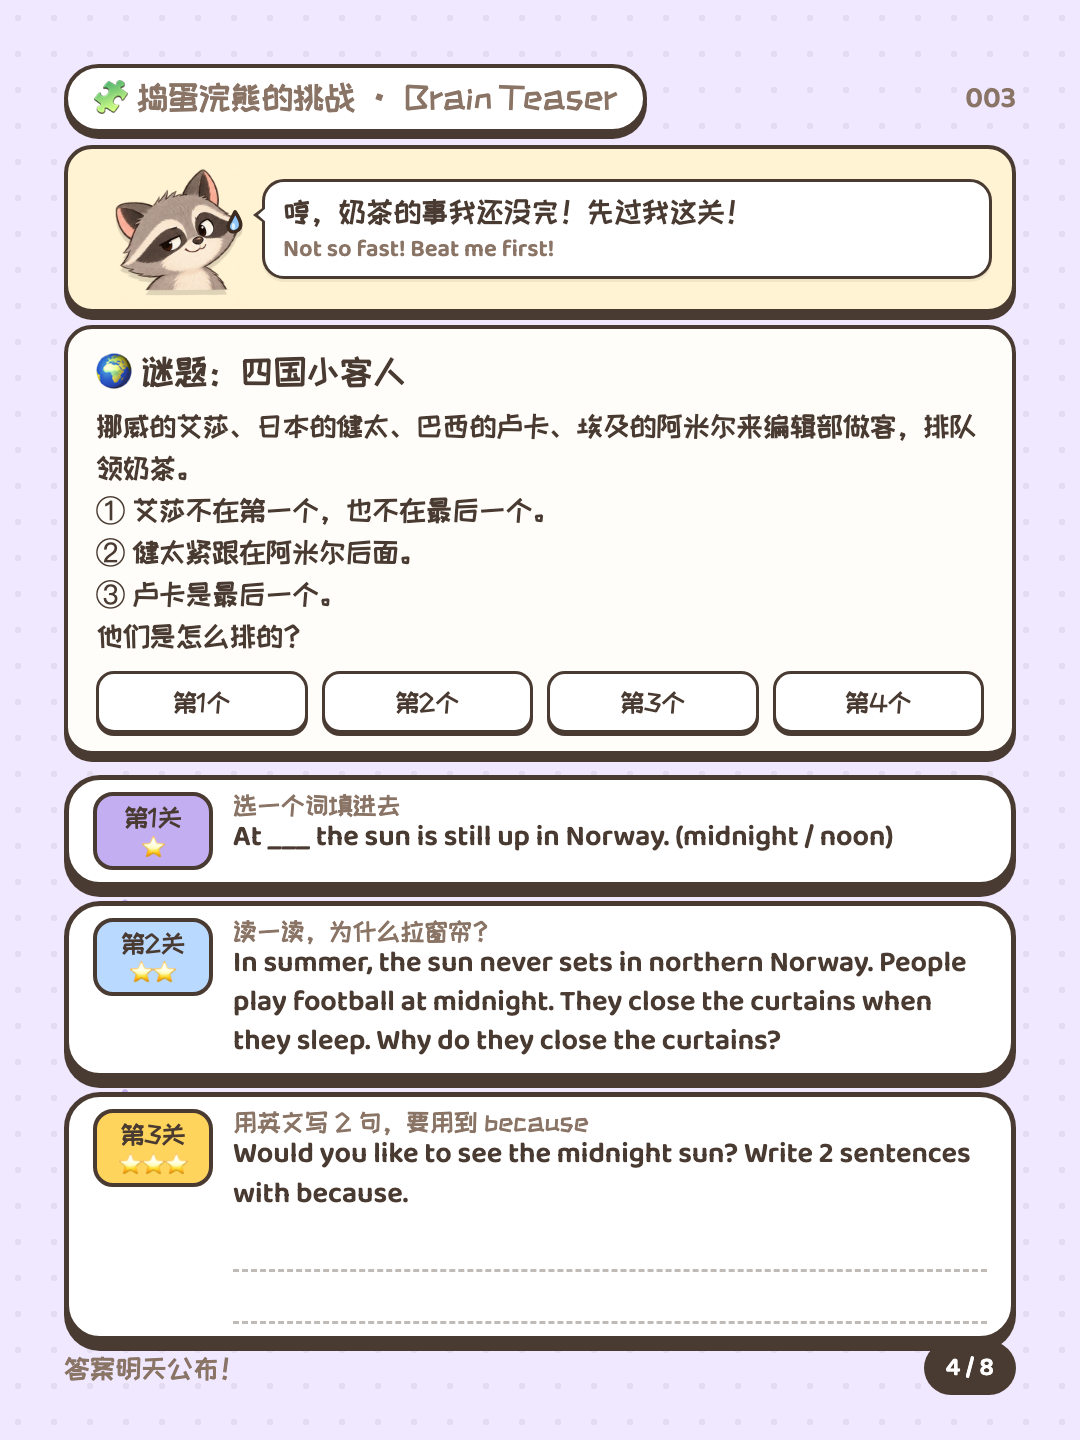
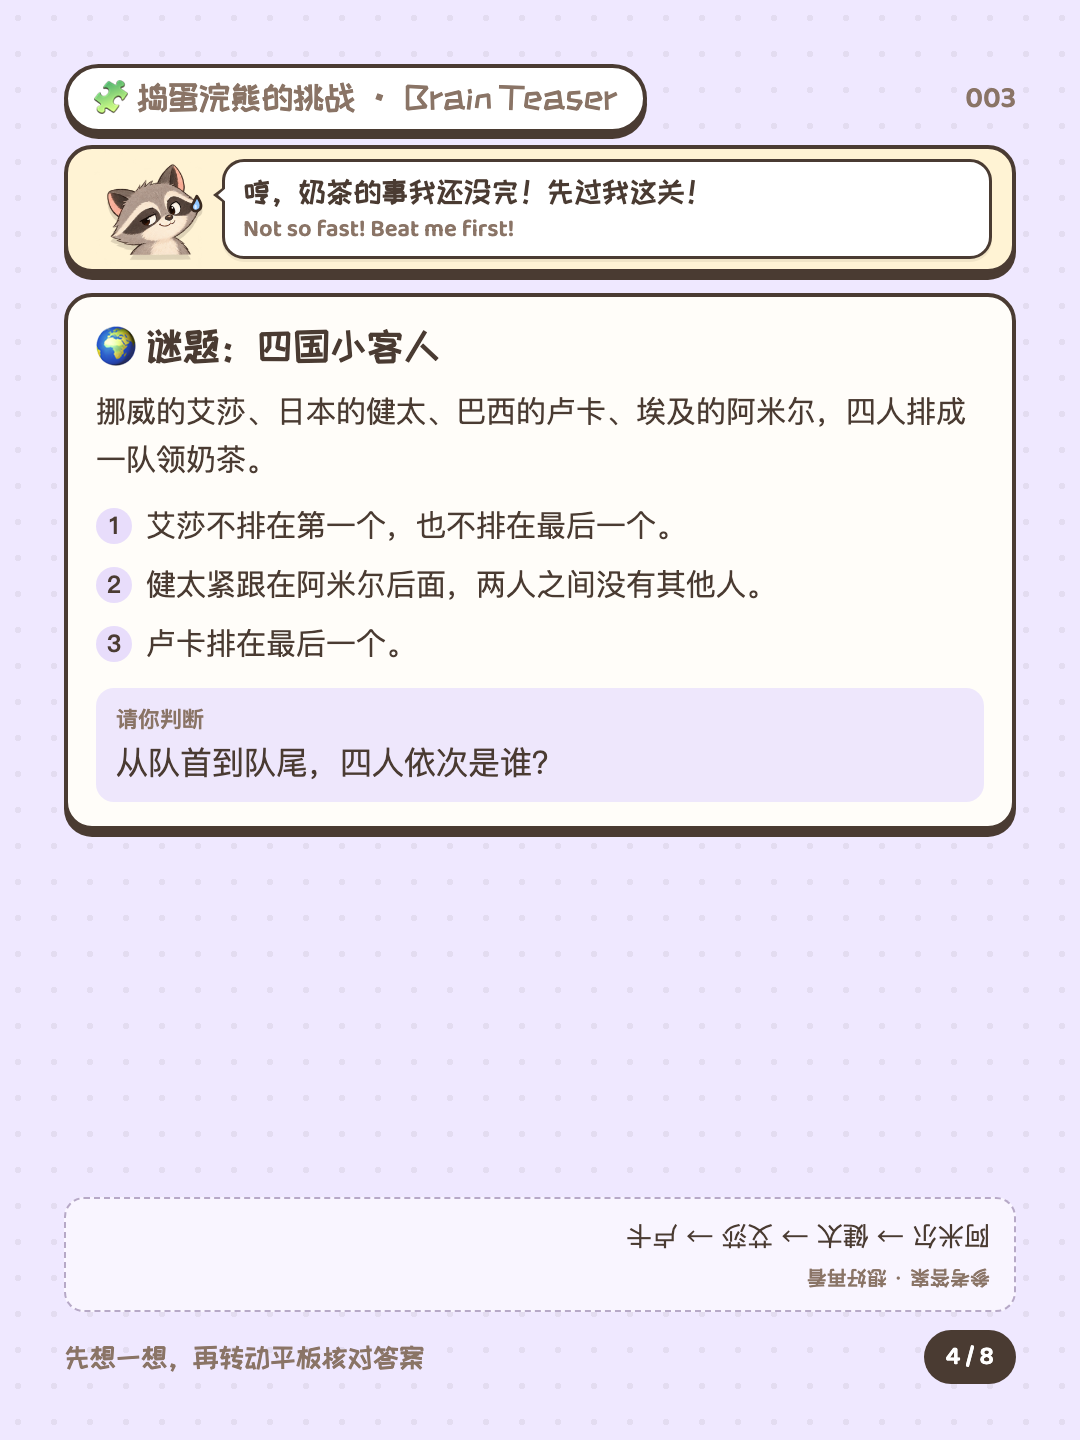
feat(challenge): simplify tablet layout and reveal answers on the same page

Changed region(s): [[0.0611, 0.0938, 0.9472, 0.9688], [0.6722, 0.8438, 0.7333, 0.875], [0.5806, 0.8438, 0.6417, 0.875]]

diff --git a/assets/style.css b/assets/style.css
@@ -253,16 +253,31 @@ svg.ch{display:block}
   border-right:9px solid #FFF;
 }
 #c5 .puz{
-  padding:16px 28px 18px;margin-top:12px;font-size:29px;line-height:1.45;flex:none;
+  padding:24px 28px;margin-top:20px;flex:none;position:relative;
   background:#FFFDF9;border:4px solid var(--ink);border-radius:28px;box-shadow:0 7px 0 var(--ink);
 }
-#c5 .puz h3{font-size:36px;margin-bottom:8px;font-weight:400}
-#c5 .slots{display:flex;gap:14px;margin-top:14px}
-#c5 .slots span{
-  flex:1;border:3.5px solid var(--ink);border-radius:18px;background:#FFF;
-  height:62px;display:flex;align-items:center;justify-content:center;
-  font-size:26px;color:var(--ink);box-shadow:0 3px 0 var(--ink);
-}
+#c5 .puz h3{font-size:40px;line-height:1.25;margin-bottom:16px;font-weight:400}
+#c5 .puz .body{font-size:30px;line-height:1.6}
+#c5 .clues{list-style:none;counter-reset:clue;display:flex;flex-direction:column;gap:14px;margin-top:20px}
+#c5 .clues li{counter-increment:clue;display:flex;align-items:flex-start;gap:14px;font-size:30px;line-height:1.5}
+#c5 .clues li:before{content:counter(clue);flex:0 0 36px;height:36px;margin-top:5px;border-radius:50%;background:#E8DDFB;display:flex;align-items:center;justify-content:center;font-size:24px;font-weight:600}
+#c5 .question{margin-top:22px;padding:16px 20px;border-radius:18px;background:#EEE7FC;font-size:32px;line-height:1.45}
+#c5 .question b{display:block;font-size:22px;color:var(--soft);margin-bottom:4px}
+#c5 .answer-key{position:relative;margin: auto 0 18px;padding:18px 24px;border:2px dashed #B7A9C7;border-radius:20px;background:#F9F5FF;flex:none}
+#c5 .foot{margin-top:0}
+#c5 .answer-content{transform:rotate(180deg);font-size:26px;line-height:1.45}
+#c5 .answer-content b{display:block;font-size:20px;color:var(--soft);margin-bottom:8px}
+#c5 .answer-content .english-key{font-size:23px;line-height:1.4;margin-top:8px}
+#c5.with-english .puz{padding:16px 24px;margin-top:16px}
+#c5.with-english .puz h3{font-size:34px;margin-bottom:8px}
+#c5.with-english .puz .body,#c5.with-english .clues li{font-size:26px;line-height:1.4}
+#c5.with-english .clues{gap:8px;margin-top:10px}
+#c5.with-english .clues li:before{flex-basis:30px;height:30px;margin-top:3px;font-size:21px}
+#c5.with-english .question{font-size:28px;margin-top:12px;padding:10px 16px}
+#c5.with-english .question b{display:none}
+#c5.with-english .taunt .bub{font-size:27px}
+#c5.with-english .taunt .bub .en{font-size:22px}
+#c5.with-english .answer-key{padding:12px 20px;margin-top:18px}
 #c5 .route{position:relative;margin-top:6px}
 #c5 .route:before{content:"";position:absolute;left:58px;top:20px;bottom:20px;border-left:6px dotted var(--lav)}
 #c5 .lv{display:flex;gap:20px;align-items:flex-start;margin-top:14px;padding:12px 24px;flex:none}
@@ -270,23 +285,8 @@ svg.ch{display:block}
 #c5 .lv .st b{display:block;font-size:22px;font-weight:400}
 #c5 .lv.l1 .st{background:#B9D9FF}#c5 .lv.l2 .st{background:#FFD45C}
 #c5 .lv .q{flex:1}
-#c5 .lv .cn{font-size:26px;color:var(--soft)}
-#c5 .lv .en{font-size:29px;line-height:1.35}
-#c5 .draft{
-  flex:1;margin:14px 0 16px;padding:14px 26px;border-radius:24px;border:4px solid var(--ink);
-  box-shadow:0 6px 0 var(--ink);
-  background:#FFF repeating-linear-gradient(0deg,#F7F4EB 0 46px,#EAE4D5 46px 48px);
-  display:flex;justify-content:space-between;align-items:center;
-}
-#c5 .draft h3{font-size:26px;font-weight:400;color:var(--ink);flex:1}
-#c5 .draft .stamp{
-  width:80px;height:80px;border:3px dashed #FF6B6B;border-radius:50%;
-  display:flex;flex-direction:column;align-items:center;justify-content:center;
-  color:#FF6B6B;font-size:15px;transform:rotate(-8deg);flex-shrink:0;margin-left:14px;
-}
-#c5 .draft .stamp b{font-size:20px}
-#c5 .mine{margin-top:14px;padding:12px 30px;font-size:30px;flex:none}
-
+#c5 .lv .cn{font-size:23px;color:var(--soft)}
+#c5 .lv .en{font-size:26px;line-height:1.3}
 /* card 6 信箱 */
 #c6{background:#FFEFD9}
 #c6 .letter{padding:24px 34px;margin-top:20px;font-size:30px;line-height:1.6;background:#FFFDF7;flex:none}
@@ -300,8 +300,6 @@ svg.ch{display:block}
 #c6 .pick.many{gap:8px 8px;flex-wrap:wrap}
 #c6 .pick.many span{padding:3px 12px;font-size:22px;white-space:nowrap}
 #c6 .checkin .lines i{height:44px}
-#c6 .answers{margin-top:20px;padding:16px 30px;background:#FFF4C9;font-size:27px;line-height:1.5;flex:none}
-#c6 .answers b{display:block;font-weight:400;color:var(--tomato);font-size:30px}
 @page{size:1080px 1440px;margin:0}
 @media print{body{background:none;-webkit-print-color-adjust:exact;print-color-adjust:exact}.card{margin:0;break-after:page}.card:last-of-type{break-after:auto}}
 

diff --git a/assets/template.html b/assets/template.html
@@ -151,17 +151,19 @@ cards.push(`<section class="card" id="c4">${topBar("📖 编辑部小剧场 · S
   ${renderStory(ST)}
   ${foot(ST.foot || `编辑部推理连载${NEXT("小剧场")}`)}</section>`);
 
-// 挑战卡
+// 挑战卡：平板阅读，题目分层，答案在本页底部倒印。
 const P = D.challenge;
-if (P) cards.push(`<section class="card" id="c5">${topBar("🧩 捣蛋浣熊的挑战 · Brain Teaser")}
-  <div class="taunt">${ch("raccoon:smirk:160:" + (P.prop || ""))}<div class="bub fun">${P.taunt_zh}<br><span class="en">${P.taunt_en}</span></div></div>
-  <div class="box puz fun"><h3>${P.puzzle.title}</h3><div class="body">${P.puzzle.body}</div>
-    ${P.puzzle.slots ? `<div class="slots">${P.puzzle.slots.map(x => `<span>${x}</span>`).join("")}</div>` : ""}</div>
+const answerText = value => String(Array.isArray(value) ? value.join("；") : value ?? "").replaceAll("&", "&amp;").replaceAll("<", "&lt;").replaceAll(">", "&gt;");
+if (P) cards.push(`<section class="card${P.english?.length ? " with-english" : ""}" id="c5">${topBar("🧩 捣蛋浣熊的挑战 · Brain Teaser")}
+  <div class="taunt">${ch("raccoon:smirk:120:" + (P.prop || ""))}<div class="bub fun">${P.taunt_zh}<br><span class="en">${P.taunt_en}</span></div></div>
+  <div class="puz"><h3 class="fun">${P.puzzle.title}</h3><div class="body">${P.puzzle.body}</div>
+    ${P.puzzle.clues?.length ? `<ol class="clues">${P.puzzle.clues.map(clue => `<li>${clue}</li>`).join("")}</ol>` : ""}
+    ${P.puzzle.question ? `<div class="question"><b>请你判断</b>${P.puzzle.question}</div>` : ""}</div>
   ${P.english?.length ? `<div class="route">${P.english.map((e, i) => `<div class="box lv l${i}"><div class="st fun">第${i + 1}关<b>${"⭐".repeat(e.stars)}</b></div>
-    <div class="q"><div class="cn fun">${e.cn}</div><div class="en">${e.en}</div>${e.stars === 3 ? lines(2) : ""}</div></div>`).join("")}</div>`
-    : `<div class="draft fun"><h3>✏ 演算草稿手账 · 💡 浣熊锦囊：细心验算每一个线索哦！</h3><div class="stamp"><span>🏆 通关印</span><b>留念</b></div></div>
-  ${P.puzzle.slots ? "" : `<div class="box mine fun"><b>我的答案：</b>${lines(1)}</div>`}`}
-  ${foot("答案明天公布！")}</section>`);
+    <div class="q"><div class="cn fun">${e.cn}</div><div class="en">${e.en}</div></div></div>`).join("")}</div>` : ""}
+  <div class="answer-key"><div class="answer-content"><b>参考答案 · 想好再看</b><p>${answerText(D._answers?.puzzle)}</p>
+    ${P.english?.length ? `<p class="english-key">英文：${(D._answers?.english || []).map((answer, i) => `${i + 1}. ${answerText(answer)}`).join("　")}</p>` : ""}</div></div>
+  ${foot("先想一想，再转动平板核对答案")}</section>`);
 
 // 环球小报（可选）：1 条头条 + 2 条小新闻
 const NW = D.news;
@@ -229,7 +231,6 @@ const picks = (items, many) => `<div class="pick${many ? " many" : ""}">${items.
 const PAGES = TOC.filter(([, t]) => t !== "信箱").map(([e, t]) => e + t);
 if (M) cards.push(`<section class="card" id="c6">${topBar("💌 编辑部信箱 · Mailbox")}
   <div class="box letter fun">${M.hello || M.letter}</div>
-  ${M.answers ? `<div class="box answers fun"><b>🔓 上期答案</b>${M.answers}</div>` : ""}
   <div class="box checkin fun"><h3>📝 今天这期，告诉编辑部</h3>
     <div class="row"><b>👍 最喜欢哪一页？</b>${picks(PAGES, PAGES.length > 5)}</div>
     <div class="row"><b>👎 哪一页不太喜欢？</b>${picks(PAGES, PAGES.length > 5)}</div>

diff --git a/pipeline/stages/50-narration.md b/pipeline/stages/50-narration.md
@@ -24,14 +24,14 @@
 - 封面：两三句讲照片最奇怪的地方，团子狗提问，停 5 秒让孩子猜
 - 今日一问：咕咕博士用一个类比讲机制，团子狗边听边插嘴；数字只讲一个；"你也可以试试"最多一句
 - 小剧场：像广播剧，短句快接；全中文，波波鼠原文里的英文照念
-- 挑战：浣熊一句挑衅，旁白念清条件，一句思路提示，不说答案
+- 挑战：浣熊一句挑衅，旁白念清条件，一句思路提示，不说答案；提示想好后转动平板看本页底部答案
 - 环球小报讲得最丰富（≤ 24 句）：头条 8–10 句，用 `talk` 讲清在哪、发生了什么、怎么发现的、一个尺度类比，最后接到孩子身上；两条短讯各 4–5 句；先描述照片里看到了什么（`photo_shows`），让只听的孩子也能"看见"；英文关键词由波波鼠念一遍；最后念"你怎么看"
 - 英文自然融入：波波鼠的英文台词、新闻关键词、连载金句照常念，不额外加英文教学
 - 怪物档案（周一，≤ 14 句）：咕咕博士像博物馆讲解员一样主持，团子狗一惊一乍；先讲传说（神秘语气），再讲科学家怎么查出来的，讲的时候描述左边那张古人画的样子；最后揭晓真实原型，描述右边照片里它真实长什么样，比一比哪里被夸张了；英文名由波波鼠念一遍
 - 真的假的（≤ 12 句）：旁白用刷视频的口气念出说法，团子狗的快脑袋马上信了，停 3 秒让孩子选真还是假；咕咕博士带着念 3 条线索，提醒"谁说的、有证据吗、别处怎么说"；不念答案（答案倒印在页面上，孩子自己翻过来看）
 - 周末思辨（周五，≤ 14 句）：旁白讲小故事，两位成员各说理由、可以互相顶一两句；念「换你来」停 3 秒，再念一个追问；提醒孩子先写下想法、周六和家人聊；编辑部不给结论
 - 经典连载：旁白讲睡前故事的语气，书中角色的话交给认领他的编辑部成员念；原著金句由波波鼠慢速念，"猜一猜"停 3 秒
-- 信箱（最后一页，≤ 10 句）：念 `hello`，一口气公布上期答案，把 5 个打卡问题用一两句带过（"最喜欢哪页、哪页不喜欢、难不难，还有今天想到的问题、看到的事，都说给妈妈听"），有 `ask_zh` 就念并停 3 秒；然后两三位成员接力道别，一句预告明天
+- 信箱（最后一页，≤ 10 句）：念 `hello`，把 5 个打卡问题用一两句带过（"最喜欢哪页、哪页不喜欢、难不难，还有今天想到的问题、看到的事，都说给妈妈听"），有 `ask_zh` 就念并停 3 秒；然后两三位成员接力道别，一句预告明天
 - 第 2 页起每页各用一句串词开场：接住上一页、说清这一页看什么、把话筒交给主持的角色；每页换个说法
 - 每句 ≤ 30 字或 ≤ 12 个英文单词；一个角色最多连说 3 句；除了开场串词，页中间的"好啦""那么""接下来"这类过渡句删掉
 - `pause` 一般不写，交给第 70 步按对话节奏自动定；只在要孩子思考、跟读的地方写，每页最多一处 ≥ 3 秒

diff --git a/pipeline/stages/14-puzzle.md b/pipeline/stages/14-puzzle.md
@@ -1,6 +1,6 @@
 # 14 谜题
 
-**目标**：挑战页的全部内容：捣蛋浣熊一句挑衅 + 一道四五年级奥数入门难度的题，和本期主题挂钩，唯一解。页面下半部是草稿区，由模板生成。
+**目标**：挑战页的全部内容：捣蛋浣熊一句挑衅 + 一道四五年级奥数入门难度的题，和本期主题挂钩，唯一解。面向平板阅读，情境、条件和提问分开排版，不留手账、草稿和手写答案格。答案在本页底部倒印，不在下一期公布。
 
 **读**：`issue/00-brief.json`
 
@@ -13,8 +13,9 @@
   "taunt_en": "Can you count faster than a bee?",
   "prop": "magnifier",
   "title": "🐝 谜题：一圈又一圈的蜂巢",
-  "body": "题干，用 <br> 换行，小问用 ①②③",
-  "slots": ["① ___ 个", "② ___ 个", "③ ___ 圈"],
+  "body": "简短说明题目情境、对象和规则。",
+  "clues": ["条件一，每项只写一个条件，不手写编号。", "条件二，明确先后、数量或相邻关系。", "条件三，排除容易误解的说法。"],
+  "question": "明确问孩子要得出什么结果，以及按什么顺序回答。",
   "answer": "① 18 个；② 37 个；③ 5 圈",
   "solution": "完整推导过程，并说明为什么答案唯一"
 }
@@ -24,7 +25,9 @@
 - `taunt_zh` ≤ 20 字，嘴硬、挑衅、和题目有关；`taunt_en` 是一句简单的英文版（≤ 10 个词）；`prop` 是浣熊的道具（见 SKILL.md 角色写法，可空）
 - 周六、周日也照常出谜题
 - 题型：4 个以上对象、3–4 条线索的逻辑排序；或需要两步以上推理的数学题
-- 题干 ≤ 120 字；`slots` 是留给孩子填答案的格子，2–4 个
+- `body` ≤ 120 字，只交代情境；`clues` 每条一个条件，模板自动编号；`question` 单独提出问题，明确队首/队尾、单位或回答顺序。情境、条件和问题合计 ≤ 240 字。新稿不写 `slots`。
+- `answer` 是简短明确的最终答案，必须非空；`solution` 保留完整推导供审核，不全部塞进页底。英文三关启用时，其答案也在本页倒印。
+- 旧稿只有 `body` 仍能渲染，但新稿必须按上述字段拆分。
 - 难度：孩子要停下来想一想才能做出来；宁可偏难，题干里给一点提示托底
 
 **自检**：按 `solution` 自己从头做一遍；逻辑题把所有排列试一遍，确认只有一个满足全部条件

diff --git a/pipeline/stages/00-brief.md b/pipeline/stages/00-brief.md
@@ -2,7 +2,7 @@
 
 **目标**：定下这一期做什么，给后面各步一个统一的方向。后面所有步骤都先读这个文件。
 
-**读**：`data/MY_CHILD.md`、`data/profile.md`、`data/curation-log.md`（最近一次策展结论和随手记）、`data/child-questions.md`、`data/story-bible.md`、`data/serial-bible.md`、`data/creature-log.md`、`data/think-log.md`、`data/letters.md`、上一期的 `issue/30-issue.json`（取期号、上期答案、`_answers`）
+**读**：`data/MY_CHILD.md`、`data/profile.md`、`data/curation-log.md`（最近一次策展结论和随手记）、`data/child-questions.md`、`data/story-bible.md`、`data/serial-bible.md`、`data/creature-log.md`、`data/think-log.md`、`data/letters.md`、上一期的 `issue/30-issue.json`（取期号和连载进度）
 
 **写**：`issue/00-brief.json`（`issue/` = `data/issues/NNN/`，NNN 是三位期号，文件夹不存在就新建）
 
@@ -24,7 +24,6 @@
   "serial": {"kind": "book", "ep": 3, "plan": "第 1 章后半：鼹鼠抢桨翻船，河鼠救起他"},
   "creature": false,
   "think": false,
-  "last_answers": {"cover": "地球是斜着转的", "puzzle": "18 / 37 / 5 圈"},
   "last_feedback": "上期打卡：最喜欢环球小报，刚刚好；想到的问题：为什么没有木乃伊猫？"
 }
 ```
@@ -37,7 +36,6 @@
 - `serial`：周五按 `serial-bible.md`「周五片单」排下一个（`kind` 写 `music`、`film` 或 `make`，`plan` 写作品名）；其他日子 `kind` 写 `book`，`ep` = 上一回 + 1，`plan` 抄分集计划里这一回的内容
 - `creature`：周一写 `true`（出一张传说怪物档案，第 09 步），其他日子写 `false`
 - `think`：周五写 `true`（出一页周末思辨，第 08 步），其他日子写 `false`
-- `last_answers` 从上一期 `30-issue.json` 的 `_answers` 抄（封面答案和谜题答案），供信箱公布
 - `last_feedback` 从 `data/feedback.jsonl` 和 `data/letters.md` 取孩子上一期的打卡（最喜欢、不喜欢、难度、她想到的问题、她看到的事），没收到就写"没有收到"。她想到的问题同时记进 `child-questions.md`
 
 **自检**：期号 = 上期 + 1；日期和星期对得上；`serial.ep` 接得上 `serial-bible.md`「进度」的最后一回

diff --git a/pipeline/stages/16-mailbox.md b/pipeline/stages/16-mailbox.md
@@ -2,7 +2,7 @@
 
 **目标**：杂志的最后一页，用来收孩子的反馈。页面上固定有 5 个问题，由模板生成：👍 最喜欢哪一页、👎 哪一页不太喜欢、今天难不难、💡 今天想到了什么有趣的问题、👀 今天看到了什么有意思的事。这一步只写页面上方的几句话。
 
-**读**：`issue/00-brief.json`（`last_answers`、`last_feedback`、`send_note`）、`data/letters.md`、周六读上一期的 `issue/08-think.json`
+**读**：`issue/00-brief.json`（`last_feedback`、`send_note`）、`data/letters.md`、周六读上一期的 `issue/08-think.json`
 
 **写**：`issue/16-mailbox.json`
 
@@ -10,18 +10,17 @@
 {
   "_meta": {"stage": "16-mailbox", "by": "", "at": ""},
   "hello": "小满早上好！你问为什么没有木乃伊猫——其实有，而且很多！",
-  "answers": "封面：地球是斜着转的；谜题：① 18 个 ② 37 个 ③ 5 圈",
   "ask_zh": "如果你是蜜蜂，会把家盖成什么形状？",
   "send_note": "说给妈妈听"
 }
 ```
 
 **规则**
+- 不写 `answers`，不公布上期封面或谜题答案；本期谜题答案已在挑战页底部倒印。
 - `hello` ≤ 60 字：一句问候。收到了上期打卡，就接住她的一句话（原话、她想到的问题或她看到的事），没收到就由一个角色说一句和本期主题有关的小事
-- `answers` ≤ 100 字，一行公布上期封面和谜题的答案，和 `last_answers` 一致；没有上期就不写
 - `ask_zh`（可选）≤ 30 字，一个和本期内容有关、要说理由的问题
 - 周六：接住周五的周末思辨，`hello` 或 `ask_zh` 问一句聊得怎么样（如"昨天的话题，家里谁说服了谁？"）；周五的信箱不重复思辨话题
 - 不写长信，不放集章、奖励；连载的"猜一猜"留给下一回连载自己回应
 - 不编造孩子说过的话
 
-**自检**：字数；公布的答案和 `last_answers` 一致；`hello` 里引用的话在 `letters.md` 或 `feedback.jsonl` 里找得到
+**自检**：字数；没有上期答案；`hello` 里引用的话在 `letters.md` 或 `feedback.jsonl` 里找得到

diff --git a/README.md b/README.md
@@ -25,11 +25,13 @@ A daily Chinese–English magazine for one child, written by an AI "editorial te
 | 封面 | 顶部刊名条 + 大幅真实照片（刊名条取照片的颜色）+ 一个反直觉问题，编辑部成员按主题换表情和道具 |
 | 今日一问 | 4 格漫画讲清一个机制 + agent 画的原理图解 + 冷知识便利贴 |
 | 小剧场 | 编辑部推理连载，中文，带"侦探笔记"提问 |
-| 挑战 | 奥数入门难度的逻辑谜题 + 草稿区 |
+| 挑战 | 情境、条件、问题分层呈现，答案在本页底部倒印 |
 | 环球小报 | 本周 3 条适合孩子的真实新闻，照片一眼看懂，交叉核实来源；讲读版讲得最丰富 |
 | 经典连载 | 公版经典儿童书一天一回（公版原版插画 + 原著英文金句 + "猜一猜接下来"）；周五换成音乐盒 / 放映室 / 动手做，介绍一首曲子、一部电影，或者带孩子折一件折纸、打印一个 3D 模型 |
-| 信箱（最后一页）| 上期答案 + 5 个打卡问题：最喜欢、不喜欢、难不难、想到的问题、看到的事 |
+| 信箱（最后一页）| 问候 + 5 个打卡问题：最喜欢、不喜欢、难不难、想到的问题、看到的事 |
 | 讲读视频（可选）| 10–12 分钟的儿童电台节目：编辑部分角色、带情绪和音效把整期讲一遍，小剧场完整演出来，新闻配背景和尺度类比；语音默认用 Azure，也可以换成别的服务 |
+
+平板版预览：[中文挑战页](docs/characters-storybook-v1-challenge.png) · [带英文三关的挑战页](docs/challenge-tablet-english.png) · [编辑部信箱](docs/mailbox-tablet.png)。
 
 ## 快速开始
 

diff --git a/pipeline/stages/15-english.md b/pipeline/stages/15-english.md
@@ -15,7 +15,7 @@
   "english": [
     {"stars": 1, "cn": "选一个词填进去", "en": "A hexagon has ___ sides than a square. (more / fewer)"},
     {"stars": 2, "cn": "读一读，回答问题", "en": "3–4 句短文 + 一个问题"},
-    {"stars": 3, "cn": "用英文写 2 句，要用到 because", "en": "一个开放问题"}
+    {"stars": 3, "cn": "用英文说 2 句，要用到 because", "en": "一个开放问题"}
   ],
   "answers": ["more", "Because ……", "开放题"]
 }
@@ -24,8 +24,10 @@
 **规则**
 - 第 1 关 ⭐：用本期单词改错或填空，括号里给两个选项
 - 第 2 关 ⭐⭐：3–4 句短文 + 1 个问题，答案能在短文里找到
-- 第 3 关 ⭐⭐⭐：让孩子用英文写 2 句自己的想法
+- 第 3 关 ⭐⭐⭐：让孩子用英文说 2 句自己的想法，口头回答，不留手写格子
 - 句子难度按 `english_level`；英文每关 ≤ 45 个单词
 - 浣熊台词中英各一句，调皮、嘴硬心软；`prop` 可选（`sweat` `magnifier` 等）
+
+- 各关参考答案在挑战页底部一起倒印，不在下一期信箱公布。
 
 **自检**：第 1、2 关答案唯一

diff --git a/examples/demo/issues/003/31-review.md b/examples/demo/issues/003/31-review.md
@@ -1,5 +1,5 @@
 结论：通过
-内容指纹：c0fa494812759e01ba661b11c4882c66981b98c17d0962dc95b9d87aba675f8a
+内容指纹：91eb2207adf5476ac4315904216b576320cf40fc3ff97e53e032828fc3eb155b
 
 ## 必须改
 - 无
@@ -16,3 +16,7 @@
 - [18-serial] 已对照 Project Gutenberg #11 第一章检查改写与白兔金句；插图取自同一版本封面，原始文件与署名保存在 18-serial.json。
 - [19-check] 极昼不代表太阳停在天空原地：USNO《The Equation of Time》说明太阳的周日视运动与地球自转有关；NOAA Arctic Zone 说明极昼期间太阳持续在地平线上方。两个来源见 19-check.json。
 - 003 是历史内容的制作示例，新闻日期保持原期，不作为今日新闻使用。
+
+## 平板挑战页调整
+- 题目按情境、三条条件和队首到队尾的提问拆分；逐项复核唯一答案仍为阿米尔 → 健太 → 艾莎 → 卢卡。
+- 本页倒印答案，移除信箱与讲读中的上期答案，英文第三关改为口头回答。
